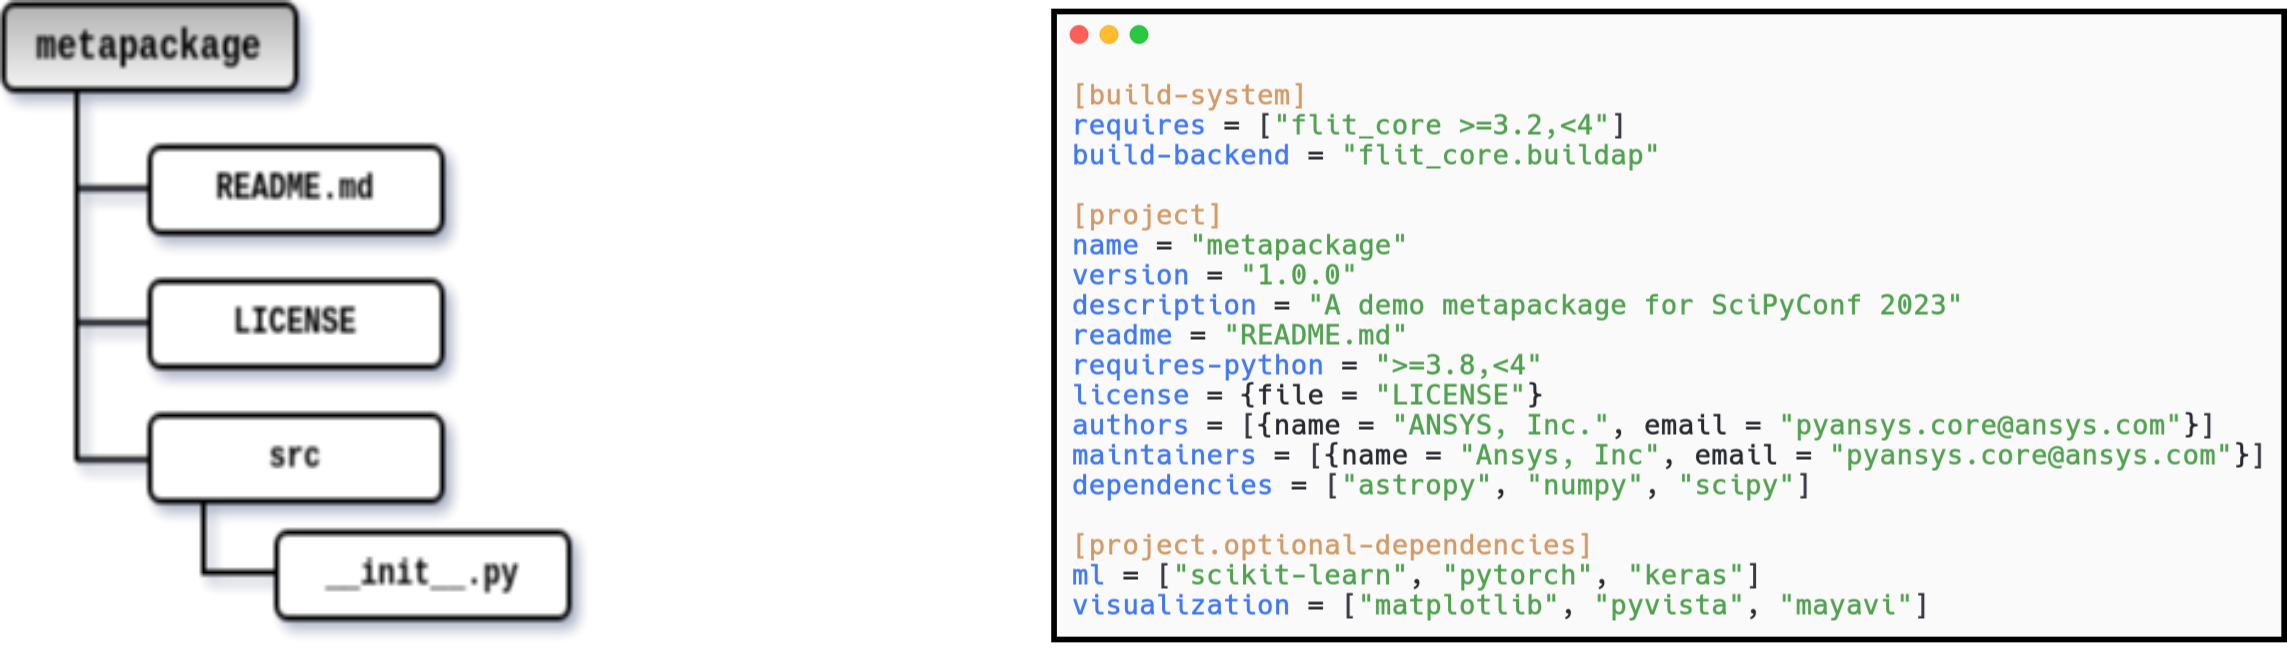
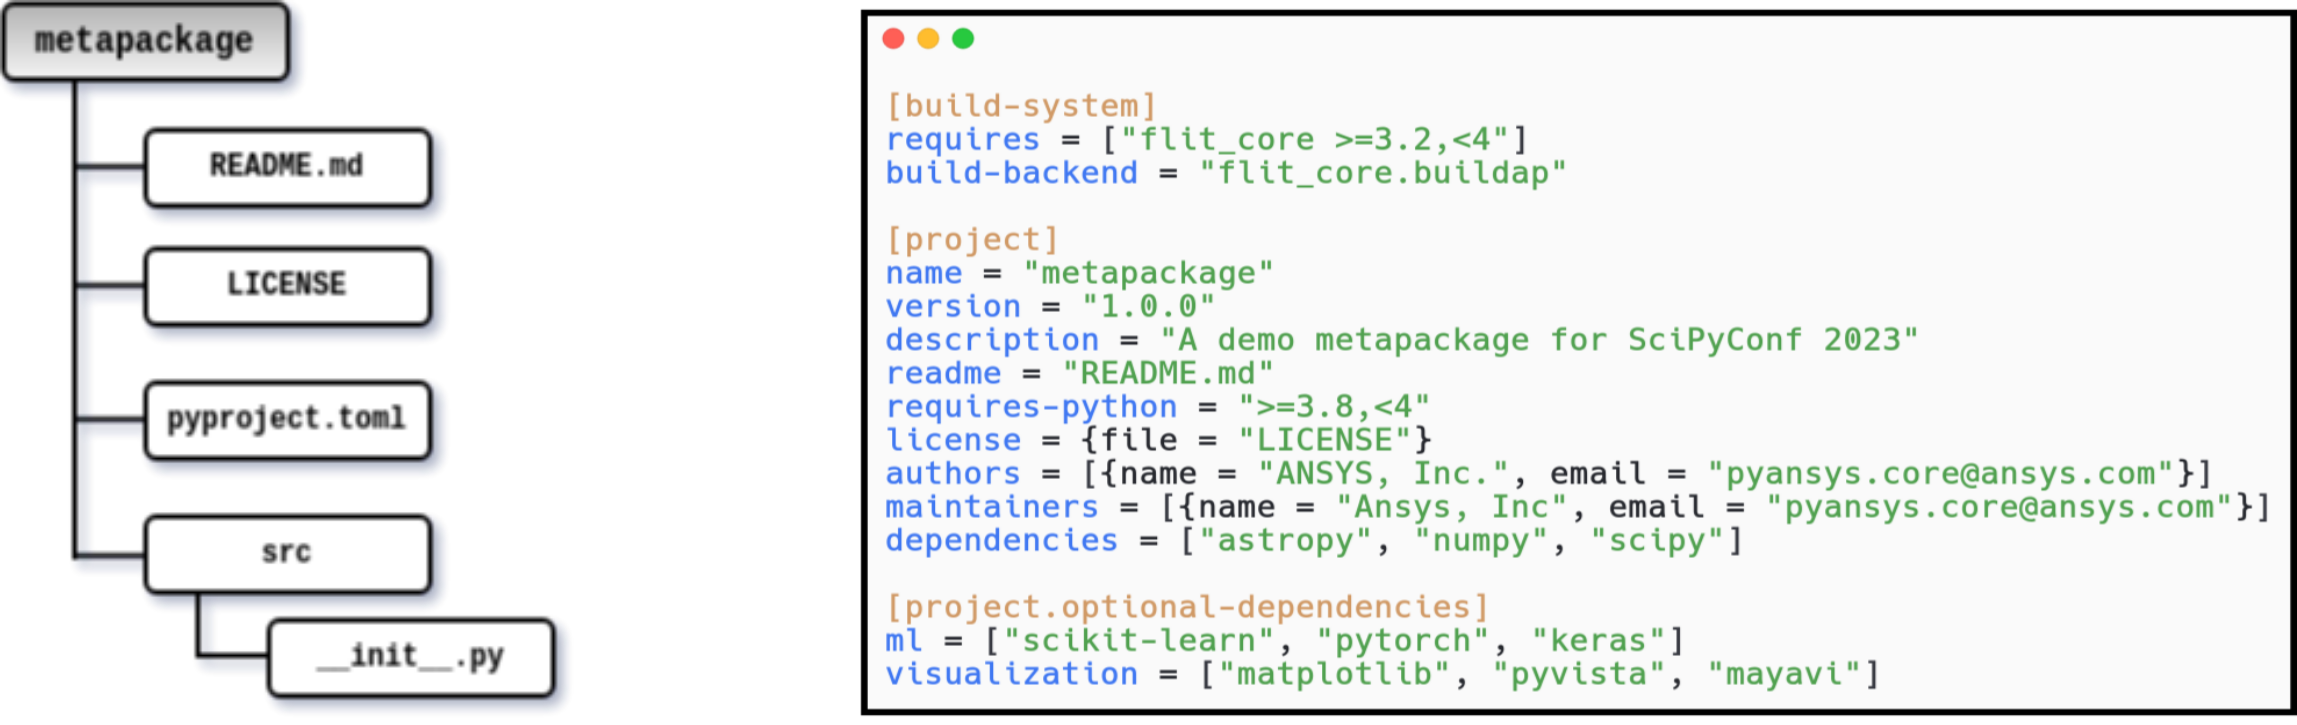
FEAT: enhance image for layout

Changed region(s): [[0.3725, 0.0, 1.0, 1.0], [0.0, 0.0, 0.2794, 0.9831], [0.4657, 0.0307, 0.5278, 0.0614]]

diff --git a/src/metapackage.tex b/src/metapackage.tex
@@ -23,9 +23,9 @@ Required and extra dependencies groups\\[1.5cm]
 
 Metapackage layout\\[1.5cm]
 \hspace{5cm}
-\includegraphics[width=\textwidth]{img/metapackage/layout}\\
+\includegraphics[width=0.98\textwidth]{img/metapackage/layout}\\
 
-\vspace{-16cm}
+\vspace{-17cm}
 }{
 %%%% Bottom space
 
